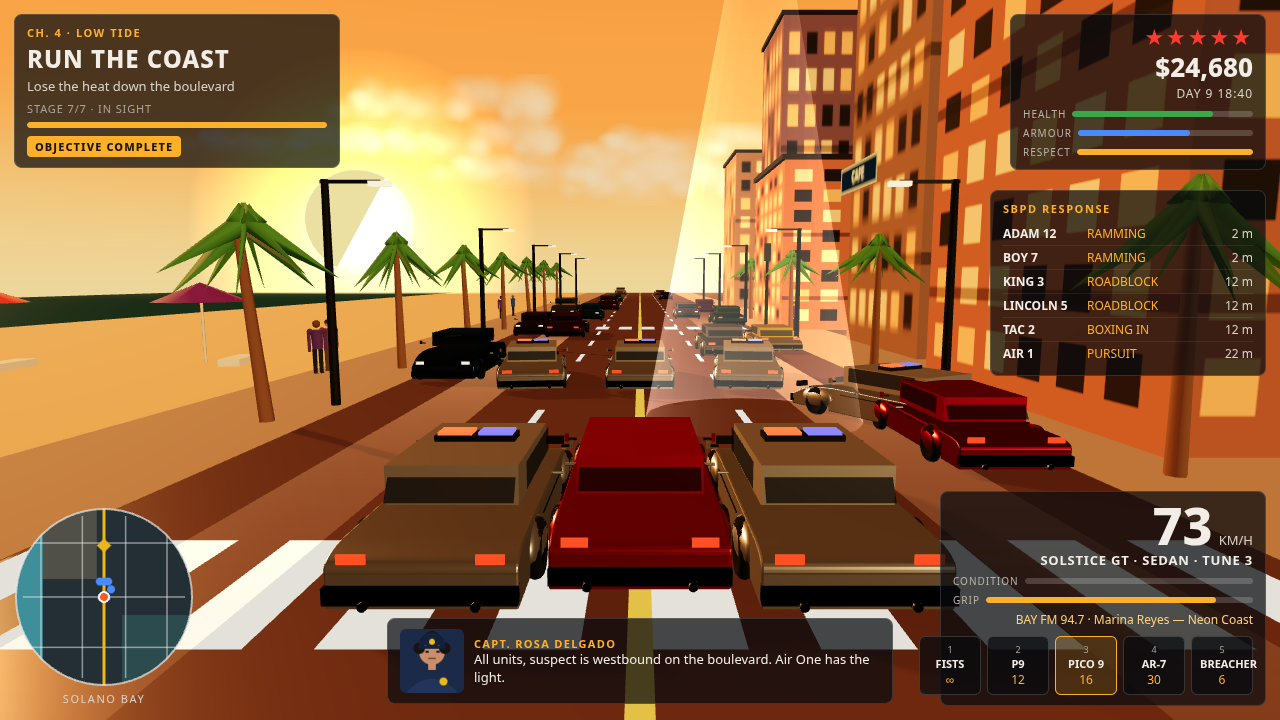
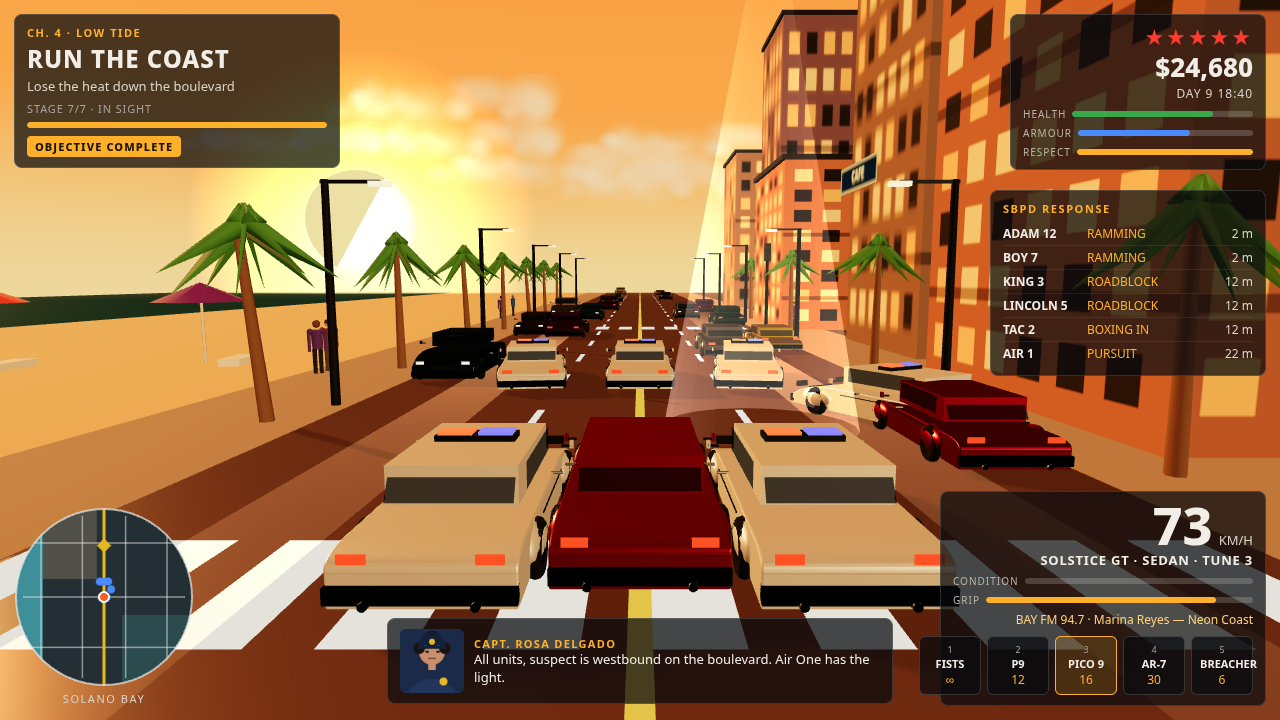
v22: heli visible in chase frame, garage car 3/4 turn, darker glass

Changed region(s): [[0.375, 0.0, 0.75, 0.8556], [0.25, 0.5806, 0.4688, 0.8556], [0.625, 0.0611, 0.6562, 0.3972]]

diff --git a/game/src/world.js b/game/src/world.js
@@ -18,7 +18,7 @@ import { muzzleFlash, setHeat, shake } from './effects.js';
 import { nextDispatchLine } from './dispatch.js';
 
 const CAMERAS = {
-  chase: { pos: [0, 3.1, 8.6], look: [0, 0.9, -10] },
+  chase: { pos: [0, 3.1, 8.6], look: [0, 1.4, -10] },
   onfoot: { pos: [1.6, 2.3, 7.5], look: [0, 1.1, -3] },
   title: { pos: [-6, 5.5, 16], look: [0, 1, -8] },
 };
@@ -77,7 +77,7 @@ export function createWorld(rng, seed) {
   ];
 
   const heli = buildHeli();
-  heli.group.position.set(2.5, 10.5, -5);
+  heli.group.position.set(2.5, 7.8, -6);
   scene.add(heli.group);
 
   const traffic = buildTraffic(rng, 10);
@@ -285,7 +285,7 @@ export function resetToStaged(world) {
     car.position.set(spots[i][0], 0, spots[i][1]);
     car.rotation.y = spots[i][2];
   });
-  world.heli.group.position.set(2.5, 10.5, -5);
+  world.heli.group.position.set(2.5, 7.8, -6);
   world.time = 0;
   world.dispatchLine = 'All units, suspect is westbound on the boulevard. Air One has the light.';
 }

diff --git a/game/src/garage.js b/game/src/garage.js
@@ -143,10 +143,12 @@ export function buildGarageScene(rng, state) {
   turntable.position.set(0, 0.06, 0);
   scene.add(turntable);
 
-  // The hero car, side-on, up on the lift (low enough that the wheels nearly
-  // touch the turntable — a floating car reads as a rendering bug).
+  // The hero car, side-on with a slight front three-quarter turn, up on the lift
+  // (low enough that the wheels nearly touch the turntable — a floating car
+  // reads as a rendering bug). Dead side-on reads flat; the turn shows the
+  // nose, the side and a hint of the top.
   const car = buildCar({ kind: 'sedan', color: state.vehicle.color });
-  car.rotation.y = Math.PI / 2; // length along X: side-on to the camera
+  car.rotation.y = Math.PI / 2 + 0.35; // length along X, nose turned to the camera
   car.position.set(0, 0.3, 0);
   scene.add(car);
 

diff --git a/game/src/carfactory.js b/game/src/carfactory.js
@@ -6,7 +6,7 @@ import * as THREE from '../vendor/three/three.module.min.js';
 
 const PAINT = (color, metalness = 0.9, roughness = 0.3) => new THREE.MeshStandardMaterial({ color, metalness, roughness });
 const GLASS_MAT = new THREE.MeshStandardMaterial({
-  color: 0x111122, metalness: 0, roughness: 0.05, transparent: true, opacity: 0.72, envMapIntensity: 1.5,
+  color: 0x111122, metalness: 0, roughness: 0.05, transparent: true, opacity: 0.85, envMapIntensity: 0.6,
 });
 const CHROME = new THREE.MeshStandardMaterial({ color: 0xd8d8d8, metalness: 1, roughness: 0.08 });
 const RUBBER = new THREE.MeshStandardMaterial({ color: 0x141414, metalness: 0, roughness: 0.9 });

diff --git a/game/src/heli.js b/game/src/heli.js
@@ -113,7 +113,7 @@ export function buildHeli() {
 
 /** Hover above the hero, spin the rotor, keep the beam and pool on the road. */
 export function updateHeli(heli, hero, dt, time) {
-  heli.group.position.set(hero.x + 2.5, 10.5 + Math.sin(time * 0.7) * 0.4, hero.z - 5);
+  heli.group.position.set(hero.x + 2.5, 7.8 + Math.sin(time * 0.7) * 0.4, hero.z - 6);
   heli.group.rotation.y = Math.sin(time * 0.2) * 0.2;
   heli.rotor.rotation.y += dt * 22;
   // The pool stays on the road under the beam, following the hero.
